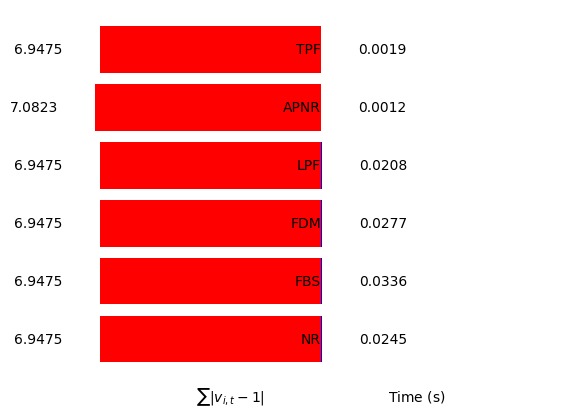
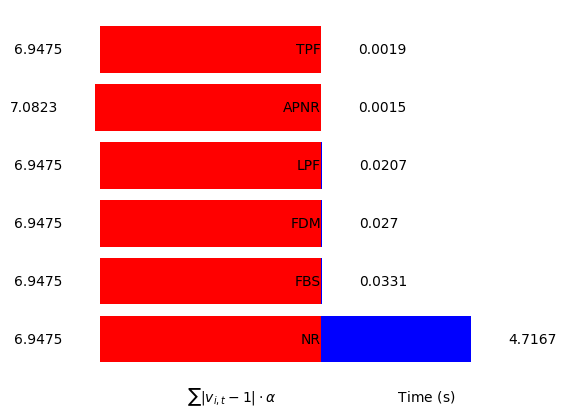
2023-06-15

diff --git a/mainCompare1.py b/mainCompare1.py
@@ -13,7 +13,7 @@ import data.ReadData as RD
 Scenario="onePF"#  "96PFs" , "onePF"
 #Test_System="141"
 
-for Test_System in ['33','141']:
+for Test_System in ['141','33']:
 	#############
 	if Test_System=='141':
 		PFM=['nr','bfsw','fdxb','Laurent','Alliander','tensor']#other methods: ['Alliander','Laurent','tensor','hp','sequential','hp-tensor','bfsw','nr','fdxb','gs','dc']
@@ -129,7 +129,7 @@ for Test_System in ['33','141']:
 		toc=time.time()-tic
 		#print('Elapsed time for the power flow: ',toc)
 		SimTime.append(toc)
-		V_compare.append(Param.goal_value[0])#/(Param.nLoad*Param.nTime))
+		V_compare.append(Param.goal_value[0]/(Param.nTime))
 		RD.Save_voltages_npy(os.path.join(FD,folder_name,"Voltages"+iPFM),Param)
 		for iprint in range(len(PFM)):
 			try:

diff --git a/data/ReadData.py b/data/ReadData.py
@@ -143,7 +143,7 @@ def Plot_bars(name,Param,PFM, SimTime,VOF):
         ax.text(-vof-max2, i, f'{round(vof, 4)}', ha='right', va='center', color='black')
         ax.text(0, i, f'{PFM[i]}', ha='right', va='center', color='black')
     
-    ax.text(0, -1, r'$\sum|v_{i,t}-1|$                            Time (s)', ha='center', va='center', color='black')
+    ax.text(0, -1, r'$\sum|v_{i,t}-1|\cdot \alpha$                            Time (s)', ha='center', va='center', color='black')
     
     # Show Plot
     plt.savefig(name+'.png', bbox_inches='tight')
